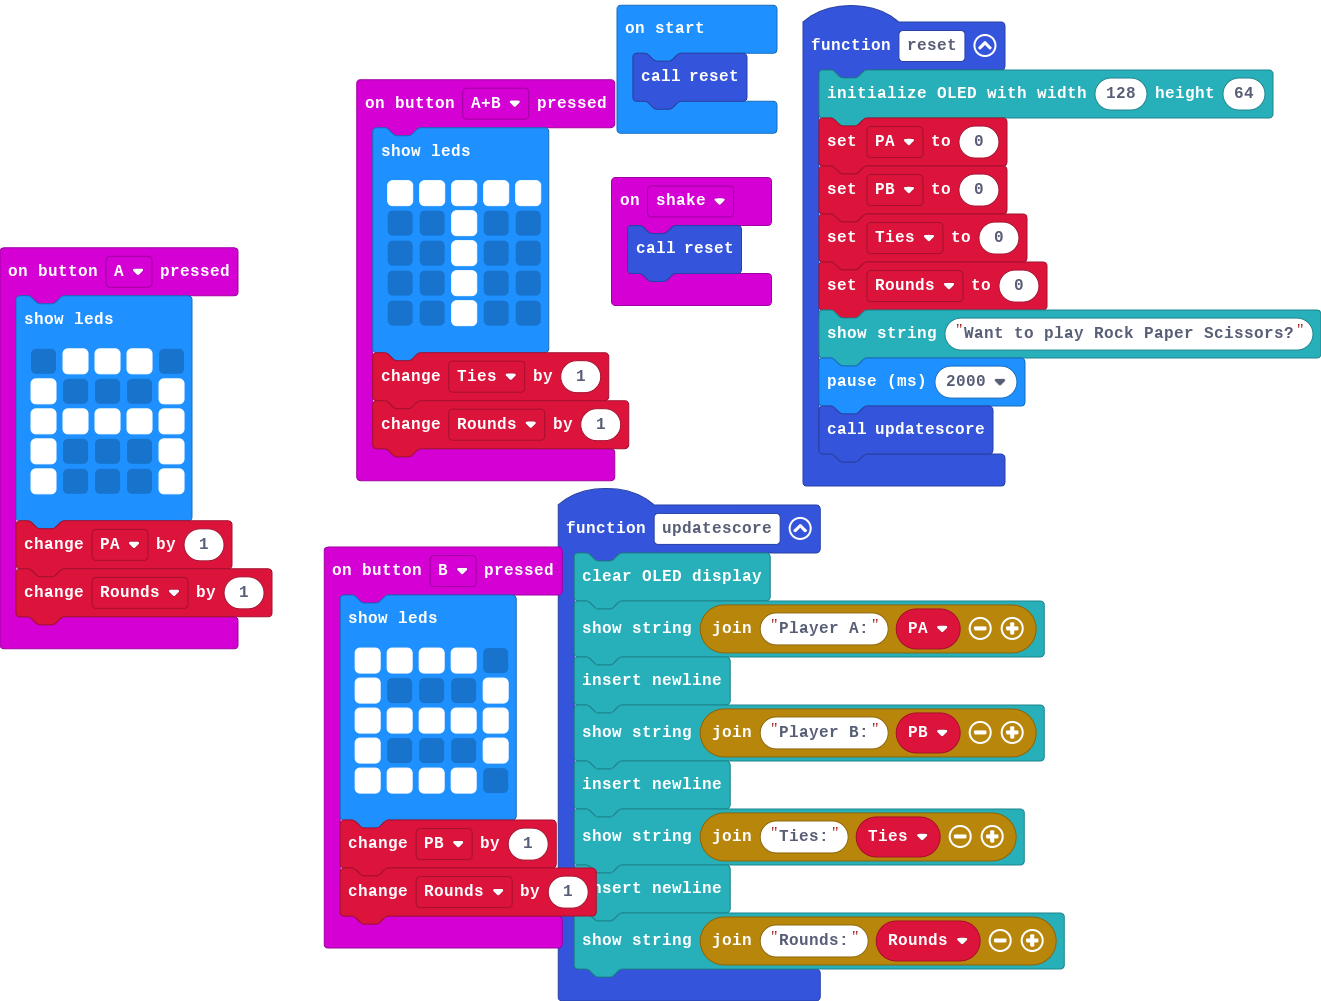
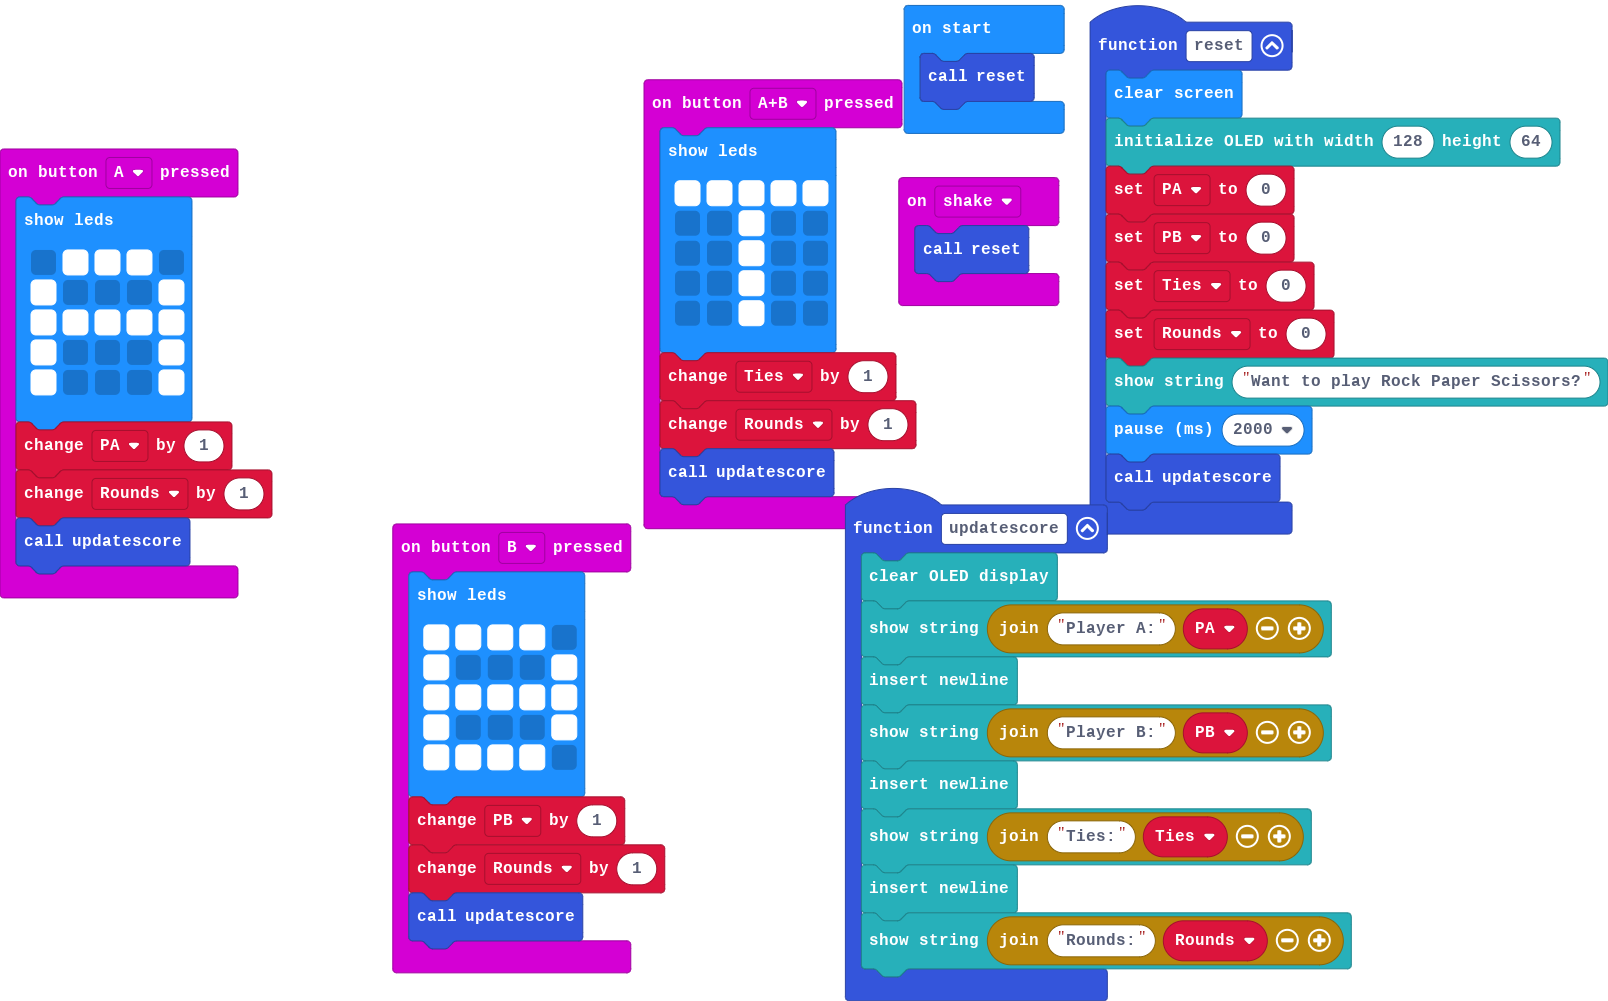
Update main.blocks, main.ts

diff --git a/main.ts b/main.ts
@@ -8,6 +8,7 @@ input.onButtonPressed(Button.A, function () {
         `)
     PA += 1
     Rounds += 1
+    updatescore()
 })
 input.onButtonPressed(Button.AB, function () {
     basic.showLeds(`
@@ -19,6 +20,7 @@ input.onButtonPressed(Button.AB, function () {
         `)
     Ties += 1
     Rounds += 1
+    updatescore()
 })
 input.onButtonPressed(Button.B, function () {
     basic.showLeds(`
@@ -30,6 +32,7 @@ input.onButtonPressed(Button.B, function () {
         `)
     PB += 1
     Rounds += 1
+    updatescore()
 })
 input.onGesture(Gesture.Shake, function () {
     reset()
@@ -45,6 +48,7 @@ function updatescore () {
     OLED.writeStringNewLine("Rounds:" + Rounds)
 }
 function reset () {
+    basic.clearScreen()
     OLED.init(128, 64)
     PA = 0
     PB = 0
